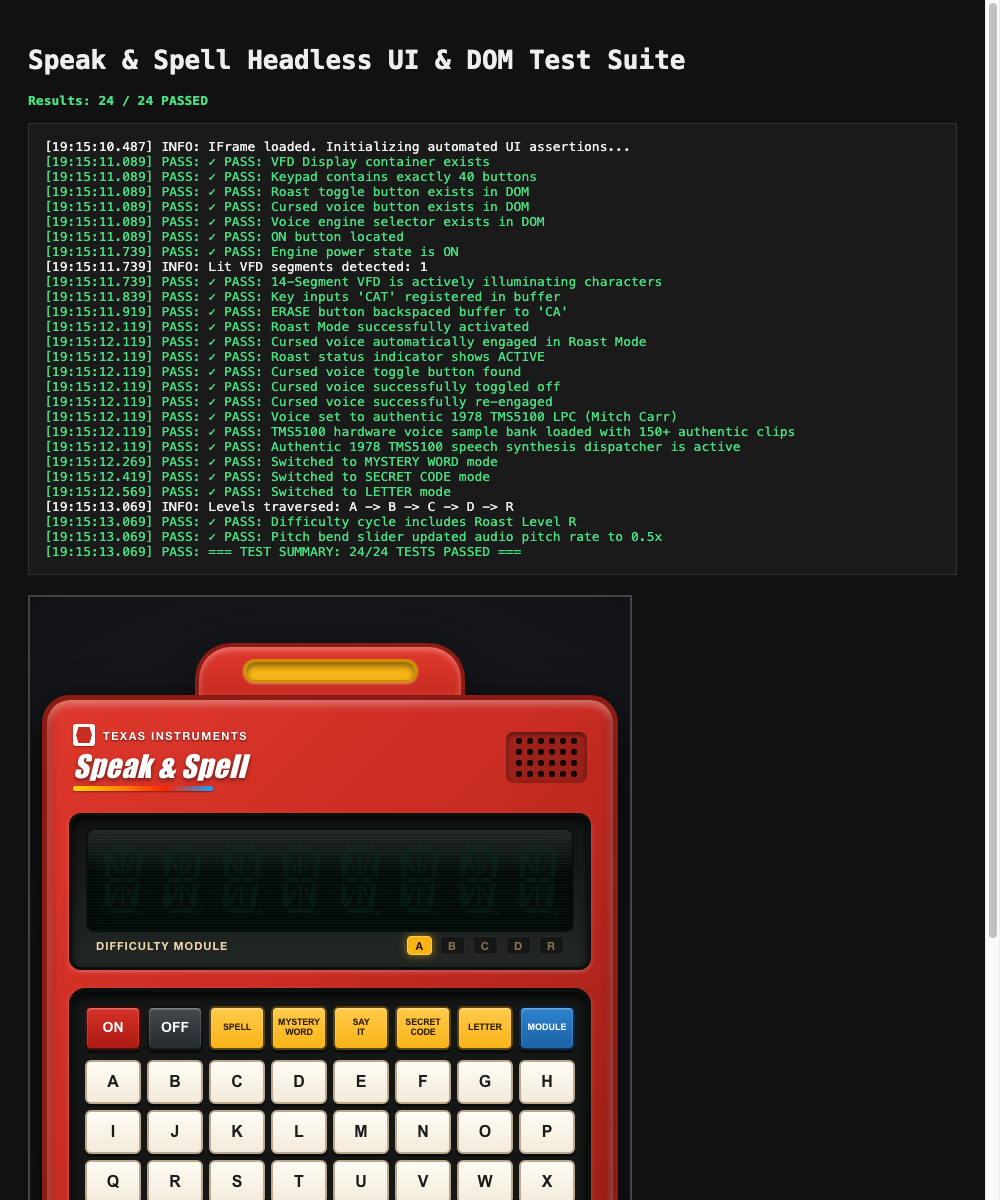
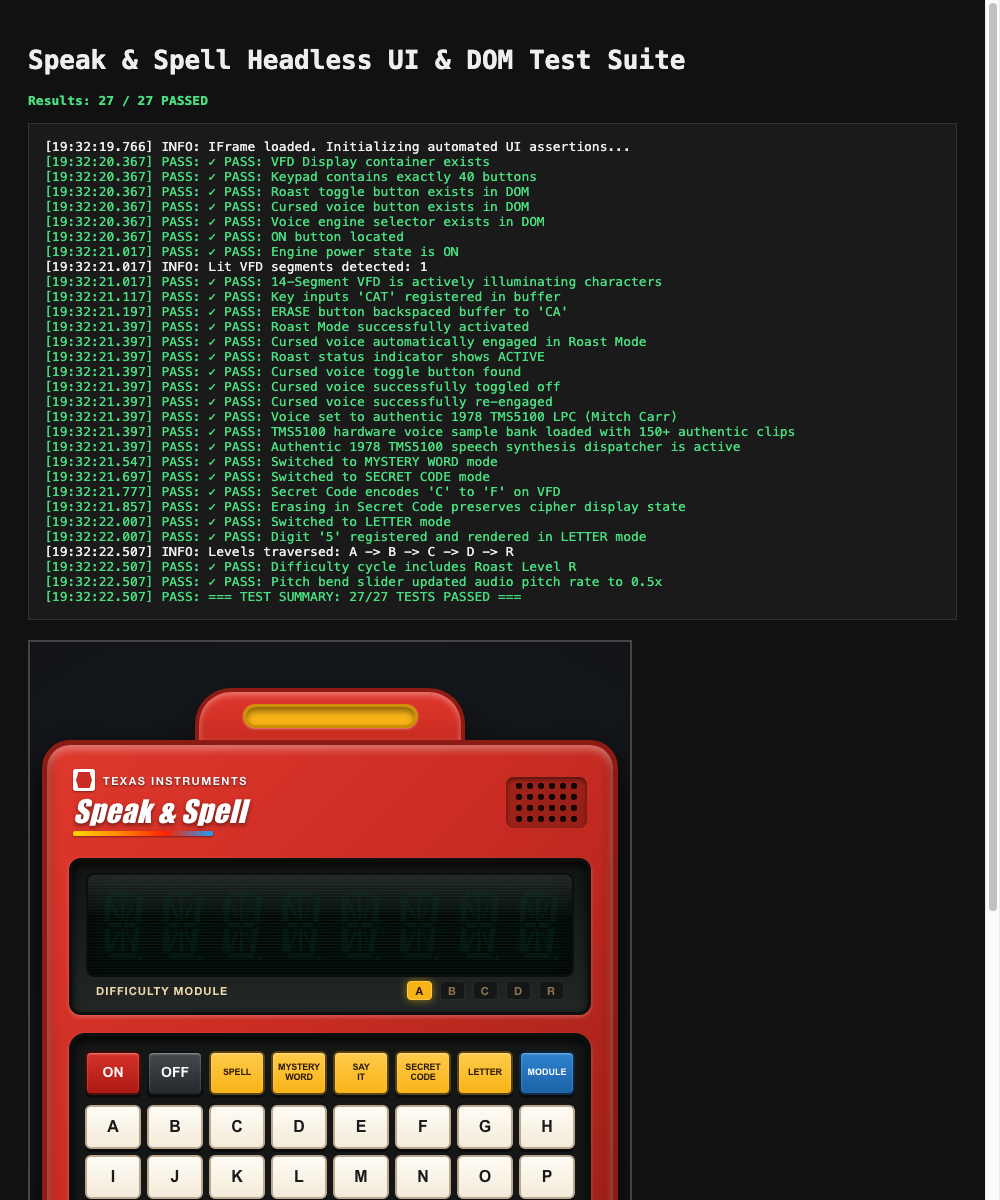
fix(ui): exclusively use 1978 TMC0280 LPC engine, fix secret code erase, touch ghost clicks, and digits input

diff --git a/js/synth.js b/js/synth.js
@@ -19,12 +19,10 @@ class SpeakSpellAudio {
     this.volume = 0.8;
     this.pitchRate = 1.0; // Circuit bend pitch factor (0.4 to 2.2)
     
-    // Voice Mode: 'LPC_1978' (Authentic Mitch Carr TMS5100), 'CURSED' (Wrong/demonic), 'SYSTEM' (SpeechSynthesis)
+    // Voice Mode: Exclusively 1978 Texas Instruments TMC0280 / TMS5100 LPC-10 Silicon Engine
     this.voiceMode = "LPC_1978";
     this.isCursedVoice = false;
     this.isMuted = false;
-    this.speechSynth = typeof window !== "undefined" ? window.speechSynthesis : null;
-    this.roboticVoice = null;
     this.isSpeaking = false;
 
     // Authentic 1978 TMS5100 Mitch Carr hardware sample caches & audio element fallbacks
@@ -636,9 +634,9 @@ class SpeakSpellAudio {
       return;
     }
 
-    // 4. "SPELL <WORD>" prompt
-    if (upper.startsWith("SPELL ")) {
-      const remainder = upper.slice(6).trim();
+    // 4. "SPELL <WORD>" and "NOW SPELL <WORD>" prompts
+    if (upper.startsWith("SPELL ") || upper.startsWith("NOW SPELL ") || upper.includes("SPELL ")) {
+      const remainder = upper.replace(/^.*SPELL\s+/, "").trim();
       await this.playSample("SPELL");
       await new Promise(r => setTimeout(r, 140 / this.pitchRate));
 
@@ -722,8 +720,9 @@ class SpeakSpellAudio {
 
   /**
    * Speak entry point:
-   * By default, uses the authentic 1978 TMS5100 LPC-10 hardware voice (Mitch Carr),
-   * with fallback to Cursed Glitch demonic mode or SpeechSynthesis.
+   * Pure 1978 Texas Instruments TMC0280 / TMS5100 LPC-10 Speech Synthesis.
+   * Dispatches authentic Mitch Carr ROM captures with circuit bending,
+   * with seamless fallback to procedural 10-pole lattice formant synthesis.
    */
   speak(text, options = {}) {
     return new Promise(async (resolve) => {
@@ -736,23 +735,15 @@ class SpeakSpellAudio {
 
       // Headless test environment detection
       if (typeof window !== "undefined" && (window.IS_TEST_ENV || navigator.webdriver)) {
-        setTimeout(resolve, 40);
+        setTimeout(resolve, 30);
         return;
       }
 
       this.isSpeaking = true;
 
       try {
-        if (this.voiceMode === "LPC_1978") {
-          // Exact 1978 Mitch Carr TMS5100 hardware voice synthesis
-          await this.speakAuthenticTMS5100(cleanText, options);
-        } else if (this.voiceMode === "CURSED") {
-          // Cursed demonic circuit-bent voice
-          await this.speakCursed(cleanText, options);
-        } else {
-          // System SpeechSynthesis
-          await this.speakSystem(cleanText, options);
-        }
+        // Exclusively 1978 TMC0280 / TMS5100 LPC-10 speech synthesis
+        await this.speakAuthenticTMS5100(cleanText, options);
       } catch (err) {
         console.warn("[SpeakSpellAudio] Speech error:", err);
       } finally {
@@ -927,56 +918,21 @@ class SpeakSpellAudio {
   }
 
   /**
-   * Cursed demonic speech
+   * Cursed Demonic Speech:
+   * Pure circuit-bent TMC0280 / TMS5100 LPC-10 with low-frequency glottal sub-pitch
+   * and WaveShaper distortion (no generic TTS).
    */
   async speakCursed(text, options = {}) {
-    if (this.speechSynth) {
-      return new Promise((resolve) => {
-        this.speechSynth.cancel();
-        const utterance = new SpeechSynthesisUtterance(text);
-        if (this.roboticVoice) utterance.voice = this.roboticVoice;
-        utterance.pitch = Math.max(0.1, 0.14 * this.pitchRate); // Demonic ultra-low gargle
-        utterance.rate = Math.max(0.4, 0.65 * this.pitchRate);
-        utterance.volume = this.volume;
-
-        utterance.onend = resolve;
-        utterance.onerror = () => {
-          this.synthesizeTMS5100(text, options).then(resolve);
-        };
-        this.speechSynth.speak(utterance);
-        setTimeout(resolve, Math.max(2000, text.length * 300));
-      });
-    } else {
-      return this.synthesizeTMS5100(text, options);
-    }
-  }
-
-  /**
-   * System SpeechSynthesis fallback
-   */
-  async speakSystem(text, options = {}) {
-    if (this.speechSynth) {
-      return new Promise((resolve) => {
-        this.speechSynth.cancel();
-        const utterance = new SpeechSynthesisUtterance(text);
-        if (this.roboticVoice) utterance.voice = this.roboticVoice;
-        utterance.pitch = Math.max(0.3, 0.75 * this.pitchRate);
-        utterance.rate = Math.max(0.5, 0.85 * this.pitchRate);
-        utterance.volume = this.volume;
-        utterance.onend = resolve;
-        utterance.onerror = resolve;
-        this.speechSynth.speak(utterance);
-        setTimeout(resolve, Math.max(1500, text.length * 200));
-      });
-    } else {
-      return this.synthesizeTMS5100(text, options);
+    const wasCursed = this.isCursedVoice;
+    this.isCursedVoice = true;
+    try {
+      await this.speakAuthenticTMS5100(text, options);
+    } finally {
+      this.isCursedVoice = wasCursed;
     }
   }
 
   stopAll() {
-    if (this.speechSynth) {
-      this.speechSynth.cancel();
-    }
     this.isSpeaking = false;
   }
 }

diff --git a/js/engine.js b/js/engine.js
@@ -177,7 +177,7 @@ class SpeakSpellEngine {
     this.spellCurrentWord = this.spellWordsList[this.spellRound];
     this.spellAttempt = 1;
     this.inputBuffer = "";
-    this.display.render("", 0);
+    this.display.render("_       ", 0);
 
     let promptText;
     if (this.isRoastMode) {
@@ -191,7 +191,8 @@ class SpeakSpellEngine {
     }
 
     await this.audio.speak(promptText);
-    this.display.render("_       ", 0);
+    if (!this.isPowerOn || this.currentMode !== "SPELL") return;
+    this.display.render(this.inputBuffer ? this.inputBuffer : "_       ", this.inputBuffer.length);
     this.isBusy = false;
   }
 
@@ -308,8 +309,9 @@ class SpeakSpellEngine {
     this.inputBuffer = "";
     this.mysteryGuessed = [];
     this.mysteryStrikes = 0;
+    this.mysteryWordFinished = false;
 
-    const pool = this.words[this.currentLevel];
+    const pool = this.words[this.currentLevel] || this.words.A;
     this.mysteryWord = pool[Math.floor(Math.random() * pool.length)];
 
     this.display.render("MYSTERY ", -1);
@@ -341,6 +343,10 @@ class SpeakSpellEngine {
   }
 
   async handleMysteryLetter(letter) {
+    if (this.mysteryWordFinished) {
+      this.startMysteryMode();
+      return;
+    }
     if (this.isBusy) return;
     if (this.mysteryGuessed.includes(letter)) {
       this.audio.playKeyClick();
@@ -355,6 +361,7 @@ class SpeakSpellEngine {
       const isComplete = this.renderMysteryDisplay();
 
       if (isComplete) {
+        this.mysteryWordFinished = true;
         this.display.flash(2, 90);
         await this.audio.playVictoryFanfare();
         const msg = this.isRoastMode
@@ -369,6 +376,7 @@ class SpeakSpellEngine {
       await this.audio.playWrongBuzz();
 
       if (this.mysteryStrikes >= this.mysteryMaxStrikes) {
+        this.mysteryWordFinished = true;
         this.display.render(this.mysteryWord, -1);
         const msg = this.isRoastMode
           ? this.words.ROAST_PHRASES.MYSTERY_LOSE.replace("%s", this.mysteryWord)
@@ -406,14 +414,19 @@ class SpeakSpellEngine {
     this.display.render(this.sayItWord, -1);
     const prefix = this.isRoastMode ? "SAY IT, IF YOU CAN. " : "SAY IT. ";
     await this.audio.speak(`${prefix}${this.sayItWord}`);
+    if (!this.isPowerOn || this.currentMode !== "SAY_IT") return;
 
     // Wait 2.2 seconds to allow player to speak
     await new Promise((res) => setTimeout(res, 2200));
+    if (!this.isPowerOn || this.currentMode !== "SAY_IT") return;
 
     // Pronounce again and spell it out
     await this.audio.speak(this.sayItWord);
+    if (!this.isPowerOn || this.currentMode !== "SAY_IT") return;
     await this.audio.speak(this.sayItWord, { spellOut: true });
+    if (!this.isPowerOn || this.currentMode !== "SAY_IT") return;
     await this.audio.speak(this.sayItWord);
+    if (!this.isPowerOn || this.currentMode !== "SAY_IT") return;
 
     this.isBusy = false;
   }
@@ -536,8 +549,8 @@ class SpeakSpellEngine {
       return;
     }
 
-    // Letter Keys (A through Z and Apostrophe)
-    if (/^[A-Z']$/.test(upperKey)) {
+    // Alphanumeric Keys (A through Z, 0 through 9, and Apostrophe)
+    if (/^[A-Z0-9']$/.test(upperKey)) {
       this.handleLetter(upperKey);
     }
   }
@@ -579,8 +592,13 @@ class SpeakSpellEngine {
 
     if (this.inputBuffer.length > 0) {
       this.inputBuffer = this.inputBuffer.slice(0, -1);
-      const displayStr = this.inputBuffer || "_";
-      this.display.render(displayStr, this.inputBuffer.length);
+      if (this.currentMode === "SECRET_CODE") {
+        const enc = this.words.encodeSecretCode(this.inputBuffer);
+        this.display.render(enc || "CODE    ", enc.length);
+      } else {
+        const displayStr = this.inputBuffer || "_";
+        this.display.render(displayStr, this.inputBuffer.length);
+      }
     }
   }
 

diff --git a/js/app.js b/js/app.js
@@ -99,7 +99,7 @@ document.addEventListener("DOMContentLoaded", () => {
       voiceSelect.value = audio.voiceMode;
     }
     if (voiceDisplay) {
-      voiceDisplay.textContent = audio.voiceMode === "LPC_1978" ? "1978 TMS5100" : (audio.voiceMode === "CURSED" ? "CURSED WRONG" : "SYSTEM TTS");
+      voiceDisplay.textContent = isCursed ? "BENT TMC0280" : "1978 TMC0280";
     }
   }
 
@@ -139,10 +139,11 @@ document.addEventListener("DOMContentLoaded", () => {
     });
   }
 
-  // Click & Touch Handlers for all membrane buttons
+  // Click & Touch Handlers for all membrane buttons with mobile ghost-click prevention
   const keys = document.querySelectorAll(".key");
   keys.forEach((keyBtn) => {
     const keyName = keyBtn.dataset.key;
+    let isTouch = false;
 
     const pressHandler = (e) => {
       e.preventDefault();
@@ -159,23 +160,33 @@ document.addEventListener("DOMContentLoaded", () => {
       keyBtn.classList.remove("pressed");
     };
 
-    keyBtn.addEventListener("mousedown", pressHandler);
-    keyBtn.addEventListener("mouseup", releaseHandler);
-    keyBtn.addEventListener("mouseleave", releaseHandler);
+    keyBtn.addEventListener("touchstart", (e) => {
+      isTouch = true;
+      pressHandler(e);
+    }, { passive: false });
 
-    keyBtn.addEventListener("touchstart", pressHandler, { passive: false });
     keyBtn.addEventListener("touchend", releaseHandler);
     keyBtn.addEventListener("touchcancel", releaseHandler);
+
+    keyBtn.addEventListener("mousedown", (e) => {
+      if (isTouch) {
+        isTouch = false;
+        return;
+      }
+      pressHandler(e);
+    });
+    keyBtn.addEventListener("mouseup", releaseHandler);
+    keyBtn.addEventListener("mouseleave", releaseHandler);
   });
 
-  // Physical Computer Keyboard Integration
+  // Physical Computer Keyboard Integration (Supports A-Z, 0-9, Enter, Backspace, Space, Esc)
   window.addEventListener("keydown", (e) => {
-    if (e.target.tagName === "INPUT") return;
+    if (e.target.tagName === "INPUT" || e.target.tagName === "SELECT") return;
 
     const key = e.key;
     let targetKeyName = null;
 
-    if (/^[a-zA-Z']$/.test(key)) {
+    if (/^[a-zA-Z0-9']$/.test(key)) {
       targetKeyName = key.toUpperCase();
     } else if (key === "Enter") {
       targetKeyName = "ENTER";

diff --git a/test_ui_runner.html b/test_ui_runner.html
@@ -134,12 +134,29 @@
         await new Promise(r => setTimeout(r, 150));
         assert(win.speakSpell.engine.currentMode === "SECRET_CODE", "Switched to SECRET CODE mode");
 
+        // Test 9b: Secret code input & cipher ERASE protection
+        const cKey = doc.querySelector('.key[data-key="C"]');
+        cKey.dispatchEvent(new MouseEvent("mousedown", { bubbles: true }));
+        cKey.dispatchEvent(new MouseEvent("mouseup", { bubbles: true }));
+        await new Promise(r => setTimeout(r, 80));
+        assert(win.speakSpell.display.text.trim() === "F", "Secret Code encodes 'C' to 'F' on VFD");
+
+        const eraseKey = doc.querySelector('.key[data-key="ERASE"]');
+        eraseKey.dispatchEvent(new MouseEvent("mousedown", { bubbles: true }));
+        eraseKey.dispatchEvent(new MouseEvent("mouseup", { bubbles: true }));
+        await new Promise(r => setTimeout(r, 80));
+        assert(win.speakSpell.display.text.startsWith("CODE"), "Erasing in Secret Code preserves cipher display state");
+
         // Test 10: Mode switching: LETTER mode
         const letterBtn = doc.querySelector('.key[data-key="LETTER"]');
         letterBtn.dispatchEvent(new MouseEvent("mousedown", { bubbles: true }));
         letterBtn.dispatchEvent(new MouseEvent("mouseup", { bubbles: true }));
         await new Promise(r => setTimeout(r, 150));
         assert(win.speakSpell.engine.currentMode === "LETTER", "Switched to LETTER mode");
+
+        // Test 10b: Digits / phonetics handling in LETTER mode
+        win.speakSpell.engine.handleKey("5");
+        assert(win.speakSpell.display.text.startsWith("5"), "Digit '5' registered and rendered in LETTER mode");
 
         // Test 11: Level module cycling including Roast R
         const levelBtn = doc.querySelector('.key[data-key="LEVEL"]');

diff --git a/js/vfd.js b/js/vfd.js
@@ -205,7 +205,41 @@ class VFDDisplay {
     this.cursorVisible = false;
   }
 
+  scrollMessage(text, speedMs = 180) {
+    return new Promise((resolve) => {
+      this.stopScrolling();
+      const clean = (text || "").toUpperCase().trim();
+      if (clean.length <= this.charCount) {
+        this.render(clean, -1);
+        resolve();
+        return;
+      }
+
+      const full = clean + "   ";
+      let offset = 0;
+
+      this.scrollInterval = setInterval(() => {
+        const slice = full.substring(offset, offset + this.charCount);
+        this.render(slice, -1);
+        offset++;
+        if (offset > full.length - this.charCount) {
+          clearInterval(this.scrollInterval);
+          this.scrollInterval = null;
+          setTimeout(resolve, 400);
+        }
+      }, speedMs);
+    });
+  }
+
+  stopScrolling() {
+    if (this.scrollInterval) {
+      clearInterval(this.scrollInterval);
+      this.scrollInterval = null;
+    }
+  }
+
   clear() {
+    this.stopScrolling();
     this.text = "".padEnd(this.charCount, " ");
     this.cursorPos = -1;
     this.render(this.text);

diff --git a/index.html b/index.html
@@ -153,9 +153,8 @@
             <span class="bend-value" id="voice-display">1978 TMS5100</span>
           </label>
           <select id="voice-engine-select" class="voice-select" aria-label="Select Voice Engine">
-            <option value="LPC_1978" selected>1978 TMS5100 (Authentic Mitch Carr)</option>
-            <option value="CURSED">⚡ Cursed Demonic (Totally Wrong)</option>
-            <option value="SYSTEM">System Speech TTS</option>
+            <option value="LPC_1978" selected>1978 TMC0280 / TMS5100 LPC (Mitch Carr)</option>
+            <option value="CURSED">⚡ Circuit-Bent TMC0280 (Roast Voice)</option>
           </select>
         </div>
 
